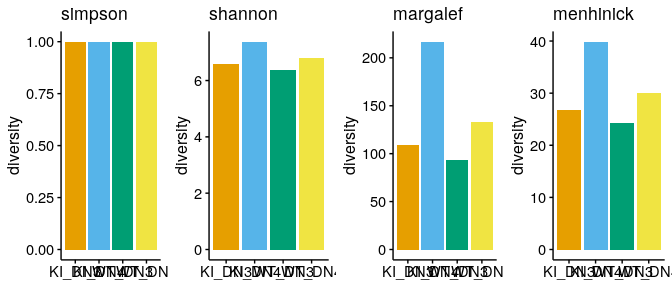
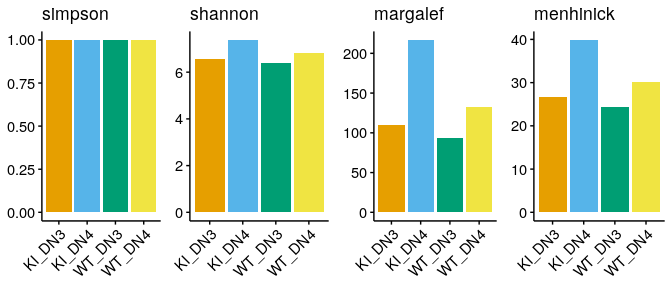
updated README

diff --git a/README.md b/README.md
@@ -315,7 +315,8 @@ ggs <- metrics %>%
       method        = .x,            # abdiv method to use
       plot_colors   = ito_cols
     ) +
-      ggtitle(.y)
+      ggtitle(.y) +
+      bar_theme
   })
 
 plot_grid(plotlist = ggs, nrow = 1)
